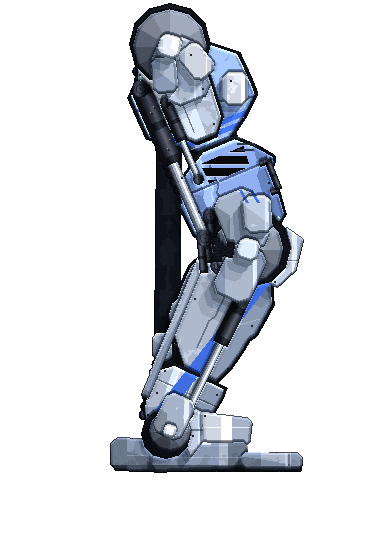
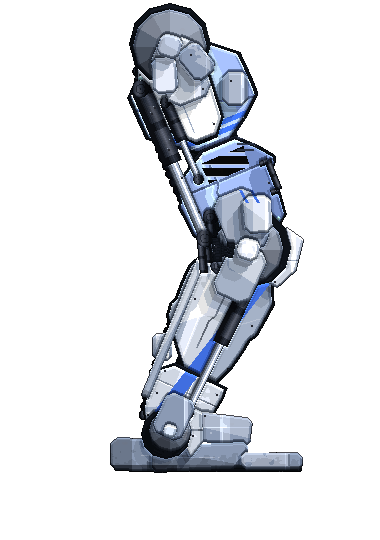
spike 机甲部件模式 v29 补：删髋→踝直脊线（形态错误遗留件）+ 编号贴纸按板定位（扫描落点+owner 校验）

diff --git a/spikes/mecha-part-patterns/RESEARCH.md b/spikes/mecha-part-patterns/RESEARCH.md
@@ -677,3 +677,17 @@ w/h +4/+2、底面标高 470 不动（向上长）。不动：包络、盖帽半
 块 + 跟块）。v27 单块楔退役（只合壳的轮廓、且丢块厚与段结构，壳亦回块构造）。
 首渲两处比例不对已同轮回调：爪趾太细（盘下两根刺）→ 趾块加厚加长；垫基座太薄
 → 20px。残差：爪趾色调与体量仍略逊参考的浅灰粗趾，属下一层。
+
+### 三之二十七、v29 补：删脊线 + 编号按板定位（2026-11-06）
+
+①脊线删除（用户指认）：中心脊线是髋→踝一根直杆，斜穿弯曲的膝关节——参考里内
+框全沿关节链分段，没有任何结构这样走；且 v23 分段结构核落地后它只剩「穿关节的
+错误部分」露在外面，其余藏在核内看不见。整根删，垫底由分段核承担，背侧露出处删
+后为核表面或合法透明。
+②编号按板定位（用户指认「跨块的文字」）：编号原按画布坐标盖章，锚点定死、无视
+底下是哪块板，「M-46」骑在大腿板缝与通风栅块之间。改两道：布局末在首板
+（stripeThigh）的实际像素里逐点扫描一块能完整容纳整串字的落点作锚；渲染盖章加
+owner 校验、非本板像素不落字（CAUTION 同步加护板 owner 校验）。成品对照：编号
+整串落在首板内、贴饰带。
+记账：此二件与足型同属 v29（开工时即如此声明）；中途一度被拆名 v30，用户纠正
+后并回——宣布的范围不得自行改名推后。
